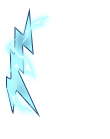
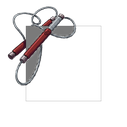
Replace Comic Arena rank hat artwork

Changed region(s): [[0.0273, 0.0472, 0.6, 0.8504], [0.7909, 0.7795, 0.8182, 0.8031]]

diff --git a/ingame.html b/ingame.html
@@ -27,7 +27,7 @@ j=d.createElement(s),dl=l!='dataLayer'?'&l='+l:'';j.async=true;j.src=
     <link rel="preconnect" href="https://fonts.googleapis.com">
     <link rel="preconnect" href="https://fonts.gstatic.com" crossorigin>
     <link href="https://fonts.googleapis.com/css2?family=Libre+Franklin:wght@400;700&family=Petra&display=swap" rel="stylesheet">
-    <link rel="stylesheet" href="styles/style.css?v=pokemon-battle-polish-v1&pokemon-type-classes-v1&scraggy-miss-v1&pokemon-logo-v1&battle-death-toggle-v1&community-animation-pass-v1&pokemon-trainer-capture-audio-v1&pokemon-evolution-cinematic-v2&sound-state-visibility-v1&classic-chat-clear-v1&target-damage-preview-v1&weather-vfx-sheet-v1&polluted-air-v2&skill-panel-zindex-fix-v1&sound-controller-layout-v1&polluted-air-fog-vfx-v1&confirmed-combat-fx-scale-down-v1&pinsir-guillotine-cinematic-v1&lance-team-preset-v1&revert-cache-bust-force-v1&genjutsu-yellow-v1&battle-fx-v1&pokemon-rank-hats-v1&arcanine-hat-v2&news-images-v1">
+    <link rel="stylesheet" href="styles/style.css?v=comic-rank-hats-v1&pokemon-battle-polish-v1&pokemon-type-classes-v1&scraggy-miss-v1&pokemon-logo-v1&battle-death-toggle-v1&community-animation-pass-v1&pokemon-trainer-capture-audio-v1&pokemon-evolution-cinematic-v2&sound-state-visibility-v1&classic-chat-clear-v1&target-damage-preview-v1&weather-vfx-sheet-v1&polluted-air-v2&skill-panel-zindex-fix-v1&sound-controller-layout-v1&polluted-air-fog-vfx-v1&confirmed-combat-fx-scale-down-v1&pinsir-guillotine-cinematic-v1&lance-team-preset-v1&revert-cache-bust-force-v1&genjutsu-yellow-v1&battle-fx-v1&pokemon-rank-hats-v1&arcanine-hat-v2&news-images-v1">
     <link rel="stylesheet" href="styles/battle-fx.css?v=battle-fx-v3">
     <link rel="stylesheet" href="styles/status-fx.css?v=status-fx-v1">
     <link rel="stylesheet" href="styles/ingame-experimental.css?v=pokemon-gameplay-fixes-v4&pokemon-ui-polish-v1&pokemon-ui-polish-v2&battle-options-death-toggle-v1&mobile-battle-options-v2&cooldown-alignment-v1&sound-state-visibility-v1&sound-controller-layout-v3&roster-zindex-fix-v1&lance-side-render-v1&no-zoom-v1&options-inline-v1">
@@ -540,7 +540,7 @@ height="0" width="0" style="display:none;visibility:hidden"></iframe></noscript>
 <script src="pokemon-wave-2-live.js?v=pokemon-balance-v3&aegislash-special-classes-v1&ditto-community-v1&jigglypuff-perish-v3"></script>
     <script src="scripts/battle-fx.js?v=battle-fx-v5"></script>
     <script src="scripts/energy-fx.js?v=energy-fx-v1"></script>
-    <script src="scripts/script.js?v=battle-widescreen-v1&pokemon-battle-polish-v2&gen2-missions-v2&pokemon-type-classes-v1&pokemon-ui-polish-v1&pokemon-ui-polish-v2&ui-stability-v1&ui-stability-v2&ios-audio-controls-v1&ditto-copy-ui-v1&scraggy-miss-v1&scraggy-evolution-ui-v1&battle-options-death-toggle-v1&community-animation-pass-v1&pokemon-trainer-capture-audio-v4&pokemon-evolution-cinematic-v2&mobile-battle-options-v2&cooldown-alignment-v1&matchmaking-spinner-restart-v1&chakra-queue-stability-v3&chakra-sync-batch-v1&match-sync-watchdog-v2&leech-seed-first-tick-v2&battle-intro-music-sync-v1&chakra-exchange-2-for-1-v1&nincada-community-v1&primeape-release-v1&energy-commit-guard-v1&jigglypuff-nincada-balance-v2&nincada-form-skills-v2&match-db-recovery-v1&target-damage-preview-v1&target-damage-flash-v1&damage-preview-blink-uncertain-v1&buff-debuff-burst-v1&skill-ready-glow-weather-burst-v1&weather-music-v1&weather-vfx-sheet-v1&polluted-air-v2&unlock-confirm-reset-v1&weather-scope-fix-v1&hp-ratio-fix-v1&sound-controller-layout-v3&polluted-air-fog-vfx-v1&arena-ladder-scope-fix-v1&pinsir-guillotine-cinematic-v1&pokemon-roster-dex-v2&mega-pinsir-copy-fix-v1&pinsir-struggle-bug-visible-v1&lance-champion-release-v1&lance-team-preset-v1&lance-preview-render-v3&store-character-bundles-v1&revert-cache-bust-force-v1&lance-side-render-v1&pokemon-arena-links-v1&trainer-red-champion-theme-v1&comic-selection-renders-v1&deadpool-release-v1&blaziken-release-v1&eevee-stays-v1&battle-fx-v1&no-zoom-v1&iphone-no-zoom-v1&aerodactyl-rework-v1&iphone-team-dbltap-v1&pokemon-rank-hats-v1&arcanine-hat-v2&news-images-v1"></script>
+    <script src="scripts/script.js?v=comic-rank-hats-v1&battle-widescreen-v1&pokemon-battle-polish-v2&gen2-missions-v2&pokemon-type-classes-v1&pokemon-ui-polish-v1&pokemon-ui-polish-v2&ui-stability-v1&ui-stability-v2&ios-audio-controls-v1&ditto-copy-ui-v1&scraggy-miss-v1&scraggy-evolution-ui-v1&battle-options-death-toggle-v1&community-animation-pass-v1&pokemon-trainer-capture-audio-v4&pokemon-evolution-cinematic-v2&mobile-battle-options-v2&cooldown-alignment-v1&matchmaking-spinner-restart-v1&chakra-queue-stability-v3&chakra-sync-batch-v1&match-sync-watchdog-v2&leech-seed-first-tick-v2&battle-intro-music-sync-v1&chakra-exchange-2-for-1-v1&nincada-community-v1&primeape-release-v1&energy-commit-guard-v1&jigglypuff-nincada-balance-v2&nincada-form-skills-v2&match-db-recovery-v1&target-damage-preview-v1&target-damage-flash-v1&damage-preview-blink-uncertain-v1&buff-debuff-burst-v1&skill-ready-glow-weather-burst-v1&weather-music-v1&weather-vfx-sheet-v1&polluted-air-v2&unlock-confirm-reset-v1&weather-scope-fix-v1&hp-ratio-fix-v1&sound-controller-layout-v3&polluted-air-fog-vfx-v1&arena-ladder-scope-fix-v1&pinsir-guillotine-cinematic-v1&pokemon-roster-dex-v2&mega-pinsir-copy-fix-v1&pinsir-struggle-bug-visible-v1&lance-champion-release-v1&lance-team-preset-v1&lance-preview-render-v3&store-character-bundles-v1&revert-cache-bust-force-v1&lance-side-render-v1&pokemon-arena-links-v1&trainer-red-champion-theme-v1&comic-selection-renders-v1&deadpool-release-v1&blaziken-release-v1&eevee-stays-v1&battle-fx-v1&no-zoom-v1&iphone-no-zoom-v1&aerodactyl-rework-v1&iphone-team-dbltap-v1&pokemon-rank-hats-v1&arcanine-hat-v2&news-images-v1"></script>
     <script>
         (function () {
             // Experimental battlefield toggle (Settings > Options) and its presentation script.

diff --git a/scripts/script.js b/scripts/script.js
@@ -2528,20 +2528,6 @@ const POKEMON_SELECTION_FEATURED_RENDER_BY_ID = Object.freeze({
         return normalizeVisiblePokemonTypes(character?.pokemonTypes);
     };
 
-    const shouldUseWideRankHatOffset = (rankHatUrl = '') => {
-        const normalized = typeof rankHatUrl === 'string' ? rankHatUrl.trim().toLowerCase() : '';
-        return (
-            normalized.endsWith('/anbu.png') ||
-            normalized.endsWith('assets/images/hats/anbu.png') ||
-            normalized.endsWith('/jinch.png') ||
-            normalized.endsWith('assets/images/hats/jinch.png') ||
-            normalized.endsWith('/kage.png') ||
-            normalized.endsWith('assets/images/hats/kage.png') ||
-            normalized.endsWith('/hokage.png') ||
-            normalized.endsWith('assets/images/hats/hokage.png')
-        );
-    };
-
     // Pokemon Arena has its own ten rank hats (assets/images/hats/pokemon/rank-01..10.png), one per ladder tier,
     // drawn around a 75x75 picture on a 127x127 canvas. The server keeps one hat URL per tier; this swaps it.
     const POKEMON_RANK_HAT_BY_TIER = {
@@ -2559,7 +2545,6 @@ const POKEMON_SELECTION_FEATURED_RENDER_BY_ID = Object.freeze({
         const pokemon = currentMatchArena === 'pokemon';
         element.src = getArenaRankHatUrl(baseUrl, currentMatchArena);
         element.classList.toggle('rank-hat-pokemon', pokemon);
-        element.classList.toggle('rank-hat-offset-left', !pokemon && shouldUseWideRankHatOffset(baseUrl));
     };
     const applyRankHatPresentation = (elements, ladder) => {
         const hatUrl = ladder?.rankHatUrl || defaultLadderRankHat;

diff --git a/styles/style.css b/styles/style.css
@@ -13455,15 +13455,12 @@ body.end-turn-modal-open .global-status-tooltip {
 
 .rank-hat {
     position: absolute;
-    left: -22px;
-    top: -22px;
+    left: -25px;
+    top: -25px;
+    width: 127px;
+    height: 127px;
     z-index: 10;
     pointer-events: none;
-}
-
-.rank-hat.rank-hat-offset-left {
-    left: -33px;
-    z-index: 10;
 }
 
 /* Pokemon Arena rank hats: a 127x127 canvas whose 75x75 middle (from 26,26) is the character's picture. */
